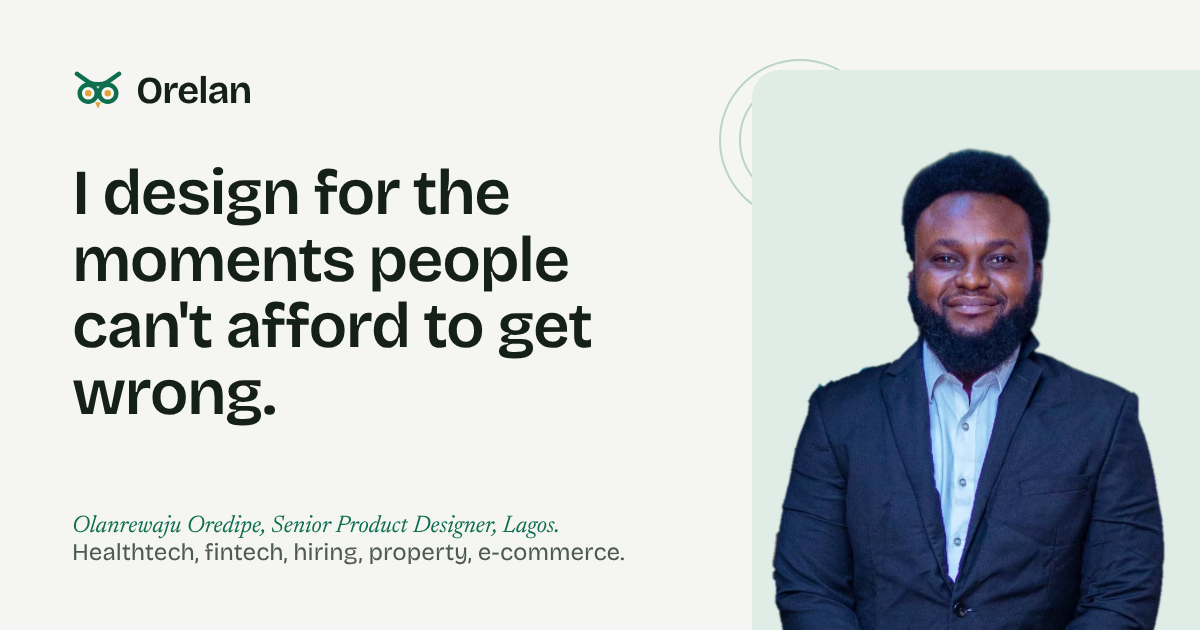
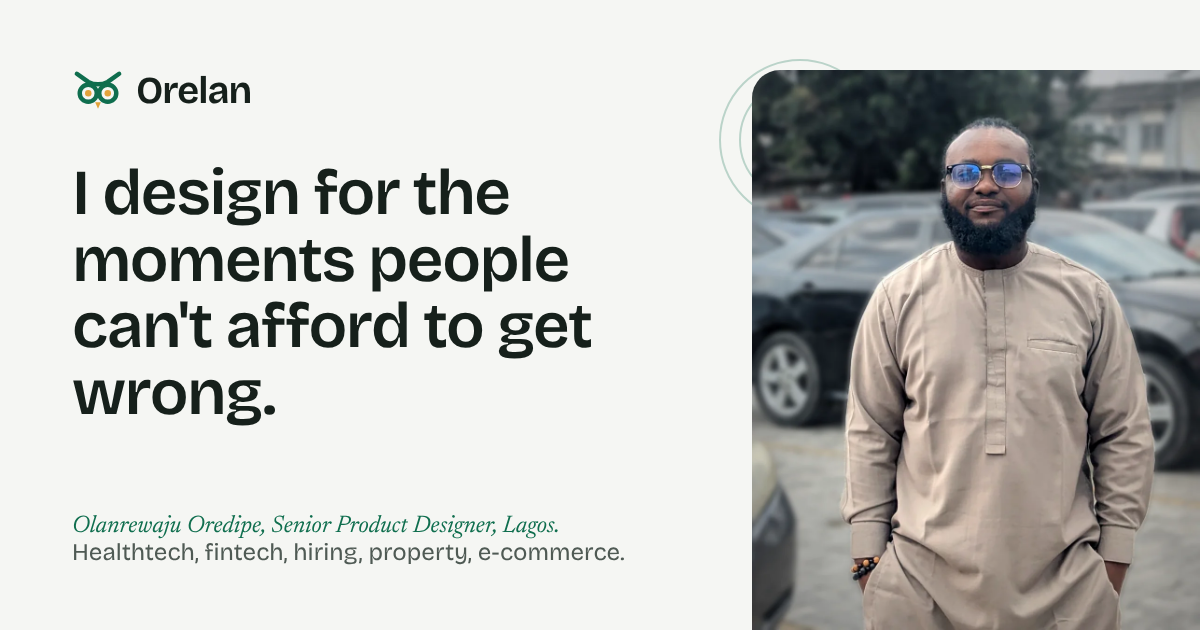
SEO: share image and structured-data photo use the new edited portrait
Claude-Session: https://claude.ai/code/session_01AHddyYpW5kcR4dLsnTMfsX

diff --git a/index.html b/index.html
@@ -35,7 +35,7 @@
         "address": { "@type": "PostalAddress", "addressLocality": "Lagos", "addressCountry": "NG" },
         "alumniOf": { "@type": "CollegeOrUniversity", "name": "University of Lagos" },
         "url": "https://www.orelan.xyz/",
-        "image": "https://www.orelan.xyz/images/olanrewaju-portrait.webp",
+        "image": "https://www.orelan.xyz/images/olanrewaju-about-colour.webp",
         "email": "mailto:orelan95@gmail.com",
         "sameAs": ["https://linkedin.com/in/olanrewaju-oredipe"],
         "knowsAbout": ["Product design", "UX design", "UI design", "Design systems", "Healthtech", "Fintech"]
